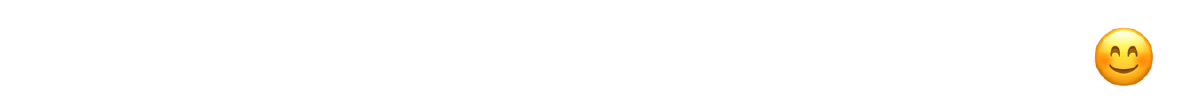
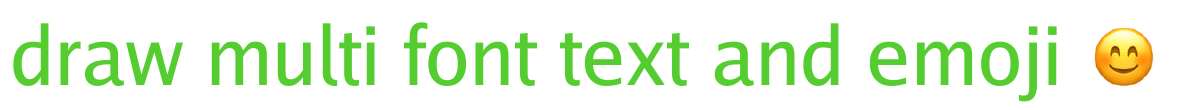
init

Changed region(s): [[0.0, 0.1909, 0.8942, 0.9273], [0.8325, 0.2455, 0.8942, 0.3273]]

diff --git a/color.go b/color.go
@@ -1,0 +1,40 @@
+package go_image_draw
+
+import "image/color"
+
+// NewColorWithHex sets the current color using a hex string. The leading pound
+// sign (#) is optional. Both 3- and 6-digit variations are supported. 8 digits
+// may be provided to set the alpha value as well.
+func NewColorWithHex(x string) color.Color {
+	r, g, b, a := parseHexColor(x)
+	return NewColorWitRGBA255(r, g, b, a)
+}
+
+// NewColorWitRGBA255 sets the current color. r, g, b, a values should be between 0 and
+// 255, inclusive.
+func NewColorWitRGBA255(r, g, b, a int) color.Color {
+	return color.NRGBA{R: uint8(r), G: uint8(g), B: uint8(b), A: uint8(a)}
+}
+
+// NewColorWitRGB255 sets the current color. r, g, b values should be between 0 and 255,
+// inclusive. Alpha will be set to 255 (fully opaque).
+func NewColorWitRGB255(r, g, b int) color.Color {
+	return NewColorWitRGBA255(r, g, b, 255)
+}
+
+// NewColorWitRGBA sets the current color. r, g, b, a values should be between 0 and 1,
+// inclusive.
+func NewColorWitRGBA(r, g, b, a float64) color.Color {
+	return color.NRGBA{
+		R: uint8(r * 255),
+		G: uint8(g * 255),
+		B: uint8(b * 255),
+		A: uint8(a * 255),
+	}
+}
+
+// NewColorWitRGB sets the current color. r, g, b values should be between 0 and 1,
+// inclusive. Alpha will be set to 1 (fully opaque).
+func NewColorWitRGB(r, g, b float64) color.Color {
+	return NewColorWitRGBA(r, g, b, 1)
+}

diff --git a/text_draw_test.go b/text_draw_test.go
@@ -26,7 +26,7 @@ func TestDrawEmoji(t *testing.T) {
 	dc := NewTextDraw([]*truetype.Font{regularFont}, &truetype.Options{
 		Size: 80,
 	})
-	dc.DrawString(img, color.White, "draw multi font text and emoji 😊", 10, 85)
+	dc.DrawString(img, NewColorWitRGB255(85, 204, 48), "draw multi font text and emoji 😊", 10, 85)
 
 	file, err := os.Create("testDrawEmoji.png")
 	if err != nil {
